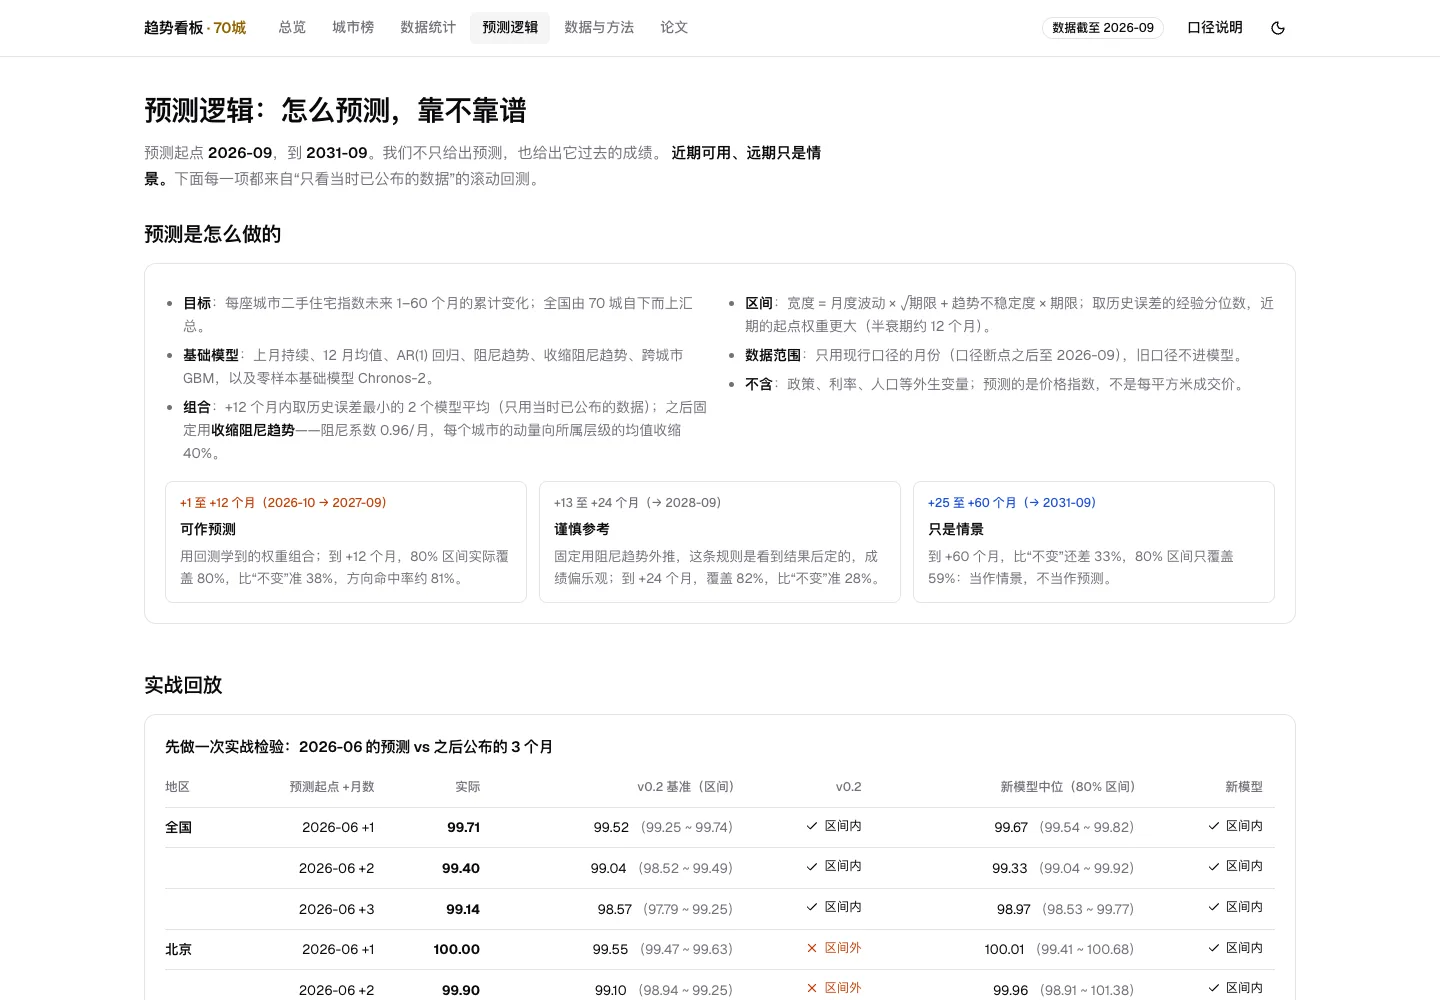
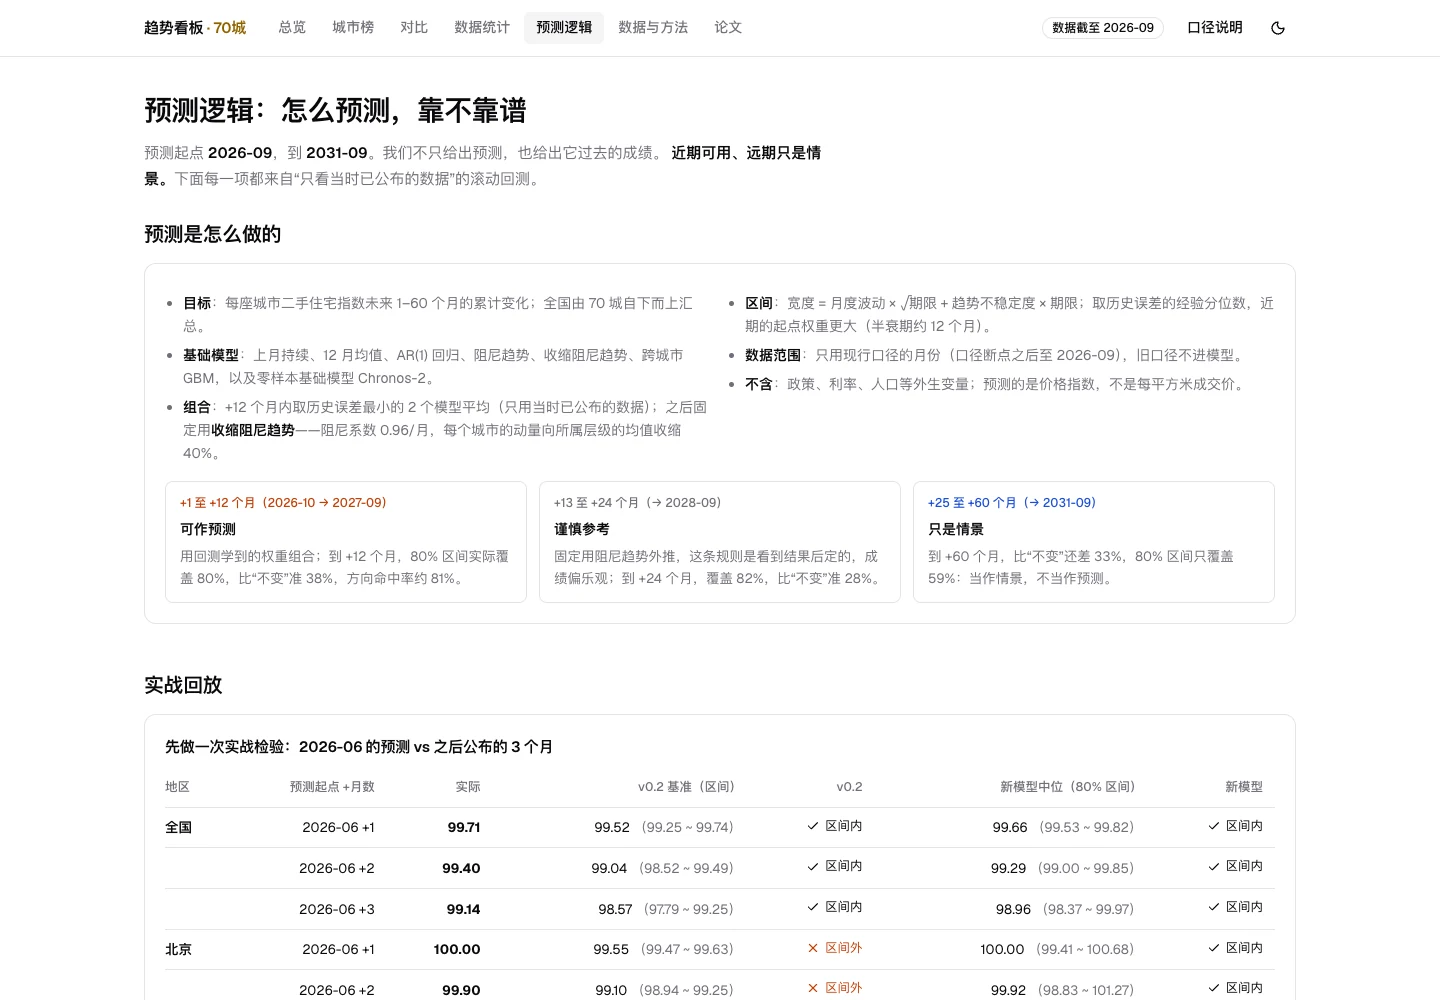
Update housing paper results and dashboard screenshots

diff --git a/src/content/projects/2026/11/china-housing-price-analysis/en.md b/src/content/projects/2026/11/china-housing-price-analysis/en.md
@@ -5,7 +5,7 @@ locale: en
 translationStatus: reviewed
 translationKey: 2026/11/china-housing-price-analysis
 createdAt: 2026-08-08
-updatedAt: 2026-11-05
+updatedAt: 2026-11-06
 status: active
 draft: false
 repositoryUrl: https://github.com/Liyuk/cn-housing-price-training
@@ -44,7 +44,7 @@ flowchart LR
 
 ![Historical national second-hand housing index and forecast range](/images/projects/china-housing-price-analysis/overview.webp)
 
-*Local dashboard screenshots show the Chinese-language interface; data through September 2026.*
+*Screenshots from the live dashboard as built on November 6, 2026; data through September 2026.*
 
 On the [dashboard](https://liyuk.github.io/cn-housing-price-training/), start with **Overview** for the national second-hand index and forecast range. The **City ranking** compares all 70 cities by trend strength, monthly and yearly changes, and forecast summaries. Select a city for details or switch cities from its page. Some cities also offer district search, listing prices, rents, and rental yields. District data come from third-party rankings; the pages state which areas and months are covered.
 
@@ -68,7 +68,7 @@ For the first 12 months, the two models with the lowest realized historical erro
 
 The project compares methods including no change, recent averages, AR(1), damped trends, and a cross-city model, with an optional time-series foundation model. Forecast combinations and intervals use rolling historical errors: at each backtest origin, the forecast uses only prior data and is compared with subsequent observations. Rolling backtests show performance across origins; the role of these same results in model selection is described below.
 
-In the November 2026 acceptance record, the average 12-month forecast error across the 70-city backtest was 38% lower than the no-change baseline. The nominal 80% interval had observed coverage of 77%–82% at horizons from 1 to 24 months. Errors at 48 and 60 months were respectively 12% and 33% higher than the no-change baseline, so the dashboard labels those longer horizons as scenarios. The damped-trend rule for months 13–24 was selected using the same backtests. These figures summarize a historical sample, with results varying across cities and periods.
+In the backtest revised on November 6, 2026, the average forecast errors across 70 cities at 1, 3, 6, and 12 months were respectively 46%, 43%, 40%, and 38% lower than the unchanged-price baseline. The corresponding realized coverage of nominal 80% intervals was 80%, 78%, 76%, and 80%. At 24 months, error improvement was 28% and coverage was 82%. Errors at 48 and 60 months were respectively 12% and 33% higher than the baseline, so the dashboard labels those longer horizons as scenarios. The damped-trend rule for months 13–24 was selected using the same backtests. These figures summarize a historical sample, with results varying across cities and periods.
 
 The project freezes forecasts monthly and scores them when new data arrive. **As of this snapshot, the ledger contains only one entry, for September 2026**, so it does not yet provide a long-term prospective evaluation. Retrospectively selected rules are described above.
 
@@ -90,4 +90,4 @@ The project freezes forecasts monthly and scores them when new data arrive. **As
 
 The project covers public data preparation, index checks, backtest methods, and city-level index results. Forecast intervals are constructed from historical errors.
 
-The project remains under maintenance. Dashboard data, models, and evaluations will change with updates; the coverage and results described here refer to the November 2026 snapshot.
+The project remains under maintenance. Dashboard data, models, and evaluations will change with updates; data coverage refers to the November 5, 2026 snapshot, and backtest results to the v0.3 paper revised on November 6.

diff --git a/src/content/projects/2026/11/china-housing-price-analysis/zh.md b/src/content/projects/2026/11/china-housing-price-analysis/zh.md
@@ -3,7 +3,7 @@ translationStatus: original
 title: 中国房价分析：从数据口径到可检验的预测看板
 description: 基于国家统计局公开月报构建 70 城房价指数面板，连接宏观与区级数据、滚动回测和交互看板。
 createdAt: 2026-08-08
-updatedAt: 2026-11-05
+updatedAt: 2026-11-06
 status: active
 draft: false
 repositoryUrl: https://github.com/Liyuk/cn-housing-price-training
@@ -42,7 +42,7 @@ flowchart LR
 
 ![全国二手住宅指数的历史走势与预测区间](/images/projects/china-housing-price-analysis/overview.webp)
 
-*本地看板截图，数据截至 2026 年 9 月。*
+*线上看板截图，页面构建于 2026 年 11 月 6 日，数据截至 2026 年 9 月。*
 
 进入[趋势看板](https://liyuk.github.io/cn-housing-price-training/)后，可以先从**总览**查看全国二手住宅指数的历史走势及预测区间，再进入**城市榜**，按趋势强度比较 70 城的环比、同比和预测摘要。点击城市可打开详情，也可在详情页切换城市；部分城市提供区县搜索、挂牌价格、租金与收益率。区县数据来自第三方榜单，覆盖的区域和月份以页面标注为准。
 
@@ -66,7 +66,7 @@ flowchart LR
 
 项目比较价格不变、近期均值、AR(1)、阻尼趋势和跨城市模型等方法，也提供可选的时间序列基础模型。预测组合与区间使用滚动历史误差：在每个回测起点，只用当时之前的数据形成对应预测，再与后来观察到的结果比较。滚动回测呈现模型跨时间的表现；模型选择使用的回测结果及其影响见下文“预测证据”。
 
-2026 年 11 月的验收记录中，70 城回测的 12 个月预测平均误差比“价格不变”低 38%；名义 80% 区间在 1 至 24 个月的实际覆盖率为 77%—82%。48 和 60 个月预测的误差分别比不变基线高 12% 和 33%，看板因此把远期结果标为情景。13 至 24 个月的阻尼趋势规则由同一批回测结果确定；这些数字汇总历史样本，城市和时期之间的表现有所不同。
+2026 年 11 月 6 日修订的回测中，70 城的 1、3、6、12 个月预测平均误差分别比“价格不变”低 46%、43%、40%、38%；对应的名义 80% 区间实际覆盖率为 80%、78%、76%、80%。24 个月改善 28%、覆盖率 82%。48 和 60 个月预测的误差分别比不变基线高 12% 和 33%，看板因此把远期结果标为情景。13 至 24 个月的阻尼趋势规则由同一批回测结果确定；这些数字汇总历史样本，城市和时期之间的表现有所不同。
 
 项目每月冻结预测，并在新数据发布后评分。**截至这份快照，账本只有 2026 年 9 月一期**，现有记录尚未形成长期事前评估；历史回放中事后确定的模型规则见上文。
 
@@ -89,4 +89,4 @@ flowchart LR
 
 项目覆盖公开数据整理、指标检查、回测方法和城市级指数结果；预测区间依据历史误差构造。
 
-项目仍在维护。看板数据、模型与回测会随更新变化；本文中的覆盖范围和成绩均对应上述 2026 年 11 月快照。
+项目仍在维护。看板数据、模型与回测会随更新变化；本文中的数据覆盖范围对应 2026 年 11 月 5 日快照，回测成绩对应 11 月 6 日修订后的 v0.3 论文。

diff --git a/src/content/research/2026/11/china-housing-price-probabilistic-forecast/en.md b/src/content/research/2026/11/china-housing-price-probabilistic-forecast/en.md
@@ -2,6 +2,7 @@
 title: "Probabilistic Forecasts of Existing-Home Prices in 70 Chinese Cities: Rolling Backtests and the Limits of Forecast Horizons"
 description: "Using existing-home price indices for 70 cities from 2011 to 2026, this study compares forecasts across horizons with an unchanged-price baseline, evaluates interval coverage, and examines the limits of retrospective model selection and long-range forecasting."
 createdAt: 2026-11-05
+updatedAt: 2026-11-06
 version: '0.3'
 status: preprint
 repositoryUrl: https://github.com/Liyuk/cn-housing-price-training
@@ -35,7 +36,7 @@ citationUrls:
 
 For how long can a model forecast urban home prices in China, and how often do its prediction intervals contain the realized outcomes? Using the National Bureau of Statistics' existing-home price indices for 70 cities, this paper constructs forecasts for horizons of 1 to 60 months and evaluates them in rolling backtests against an unchanged-price baseline. The modeling data cover February 2011 through September 2026; origins from 2019 onward are scored, and earlier origins are used for learning.
 
-In the city-level backtest, the 12-month forecast has 38% lower mean absolute error than the unchanged-price baseline, and its nominal 80% interval covers 80% of realized outcomes. At 24 months, the corresponding figures are 28% lower error and 82% coverage. At 48 and 60 months, errors are 12% and 33% higher, while coverage of the 80% interval falls to 64% and 59%. The global model's multi-horizon labels have been corrected, and 210 cells in the 2021 new-home index inferred from future year-on-year values have been masked. Interpretation is limited by horizon-specific, overlapping origins; retrospective model selection; unavailable historical data snapshots; and an unverified Chronos-2 pretraining boundary. The first saved ledger records the pre-correction model (§6.1).
+In the city-level backtest, forecast errors at 1, 3, 6, and 12 months are respectively 46%, 43%, 40%, and 38% lower than the unchanged-price baseline; realized coverage of nominal 80% intervals is 80%, 78%, 76%, and 80%. At 24 months, error is 28% lower and coverage is 82%. At 48 and 60 months, errors are 12% and 33% higher, while coverage of the 80% interval falls to 64% and 59%. The global model's multi-horizon labels have been corrected, and 210 cells in the 2021 new-home index inferred from future year-on-year values have been masked. Interpretation is limited by horizon-specific, overlapping origins; retrospective model selection; unavailable historical data snapshots; and an unverified Chronos-2 pretraining boundary. The first saved ledger records the pre-correction model (§6.1).
 
 This paper also finds an implementation error in the mean-reversion component of the author's earlier v0.2 method, whose weight-selection objective differs from the five-year cumulative outcome reported. At matched origins, errors for Beijing fall by approximately 19% and 28% at 12 and 24 months, respectively; model-selection boundaries are summarized in §6.1.
 

diff --git a/src/content/research/2026/11/china-housing-price-probabilistic-forecast/zh.md b/src/content/research/2026/11/china-housing-price-probabilistic-forecast/zh.md
@@ -2,6 +2,7 @@
 title: 中国 70 城二手住宅价格的概率预测：滚动回测与预测期限的边界
 description: 基于 2011—2026 年 70 城二手住宅价格指数，比较多期限预测与价格不变基准，检验区间覆盖，并讨论事后选模和长期预测的限制。
 createdAt: 2026-11-05
+updatedAt: 2026-11-06
 version: '0.3'
 status: preprint
 repositoryUrl: https://github.com/Liyuk/cn-housing-price-training
@@ -34,7 +35,7 @@ citationUrls:
 
 预测中国城市住宅价格时，模型的表现能维持多长时间，预测区间又覆盖了多少实际结果？本文使用国家统计局 70 城二手住宅价格指数，构造 1—60 个月的预测，并以价格不变为基准开展滚动回测。建模数据覆盖 2011 年 2 月至 2026 年 9 月；自 2019 年起的起点用于评分，较早起点用于学习。
 
-在城市样本的回测中，12 个月预测的平均绝对误差比价格不变低 38%，标称 80% 区间覆盖了 80% 的已实现结果；24 个月分别为低 28% 和覆盖 82%。48、60 个月的误差分别高 12%、33%，80% 区间覆盖率降至 64%、59%。模型已修正多期标签错位，并遮罩 2021 年新房指数中 210 个借用未来同比推算的单元。上述结果受按期限不同且彼此重叠的回测起点、同一批数据上的事后选模、缺少历史数据快照及未核实的 Chronos-2 预训练时间边界限制；首期预测账本记录的是修正前模型（§6.1）。
+在城市样本的回测中，1、3、6、12 个月预测的平均绝对误差分别比价格不变低 46%、43%、40%、38%，标称 80% 区间覆盖率分别为 80%、78%、76%、80%；24 个月分别为低 28% 和覆盖 82%。48、60 个月的误差分别高 12%、33%，80% 区间覆盖率降至 64%、59%。模型已修正多期标签错位，并遮罩 2021 年新房指数中 210 个借用未来同比推算的单元。上述结果受按期限不同且彼此重叠的回测起点、同一批数据上的事后选模、缺少历史数据快照及未核实的 Chronos-2 预训练时间边界限制；首期预测账本记录的是修正前模型（§6.1）。
 
 与作者此前的 v0.2 方法相比，本文还发现其均值回归实现有误，且权重选择目标与五年累计结果不一致。相同起点的比较中，北京在 12、24 个月的误差分别下降约 19%、28%（选模边界见 §6.1）。
 
